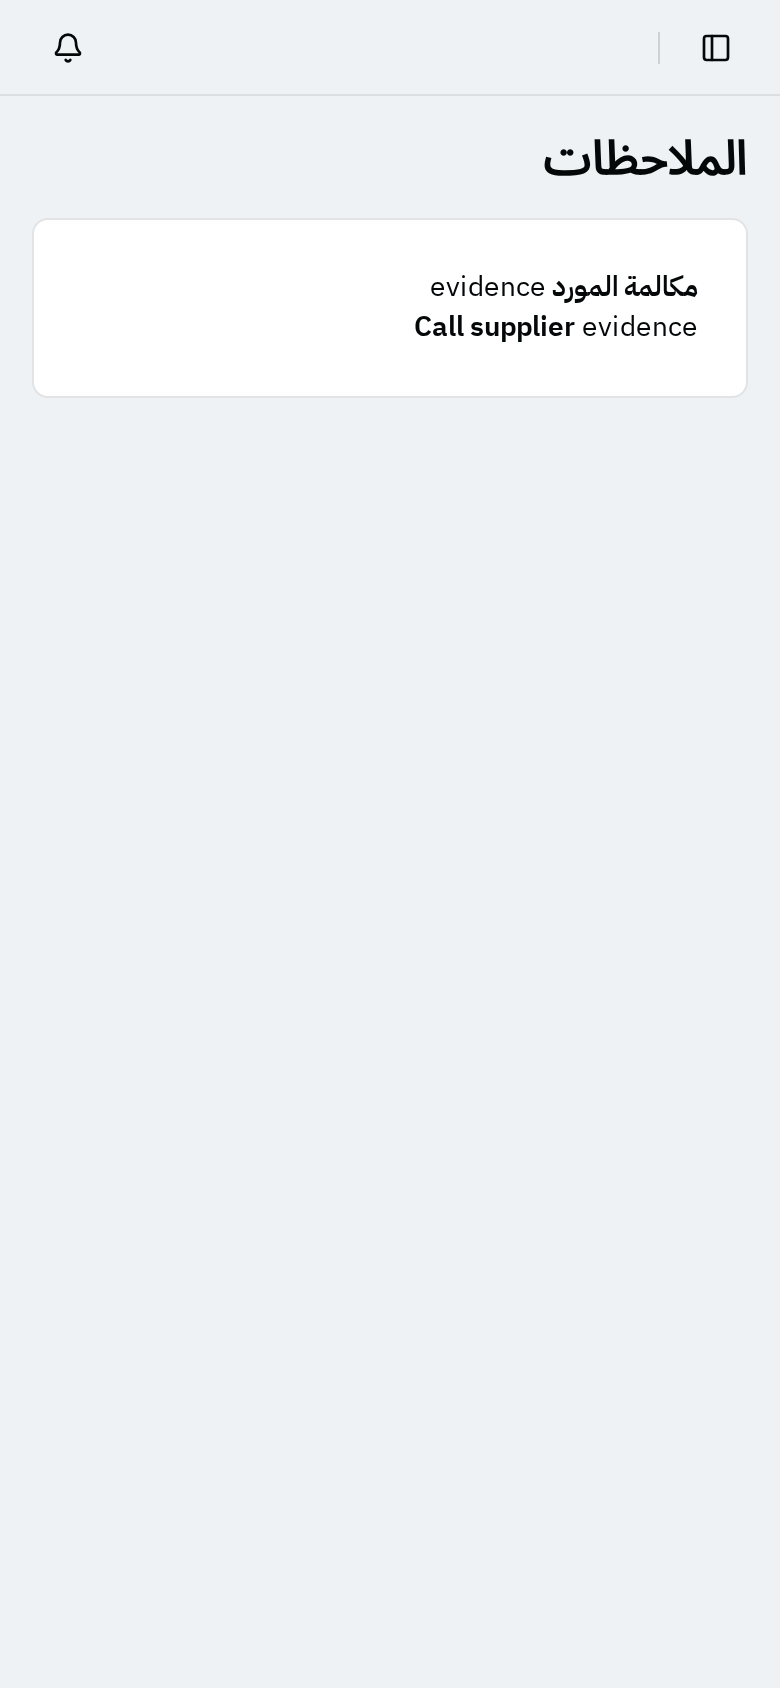
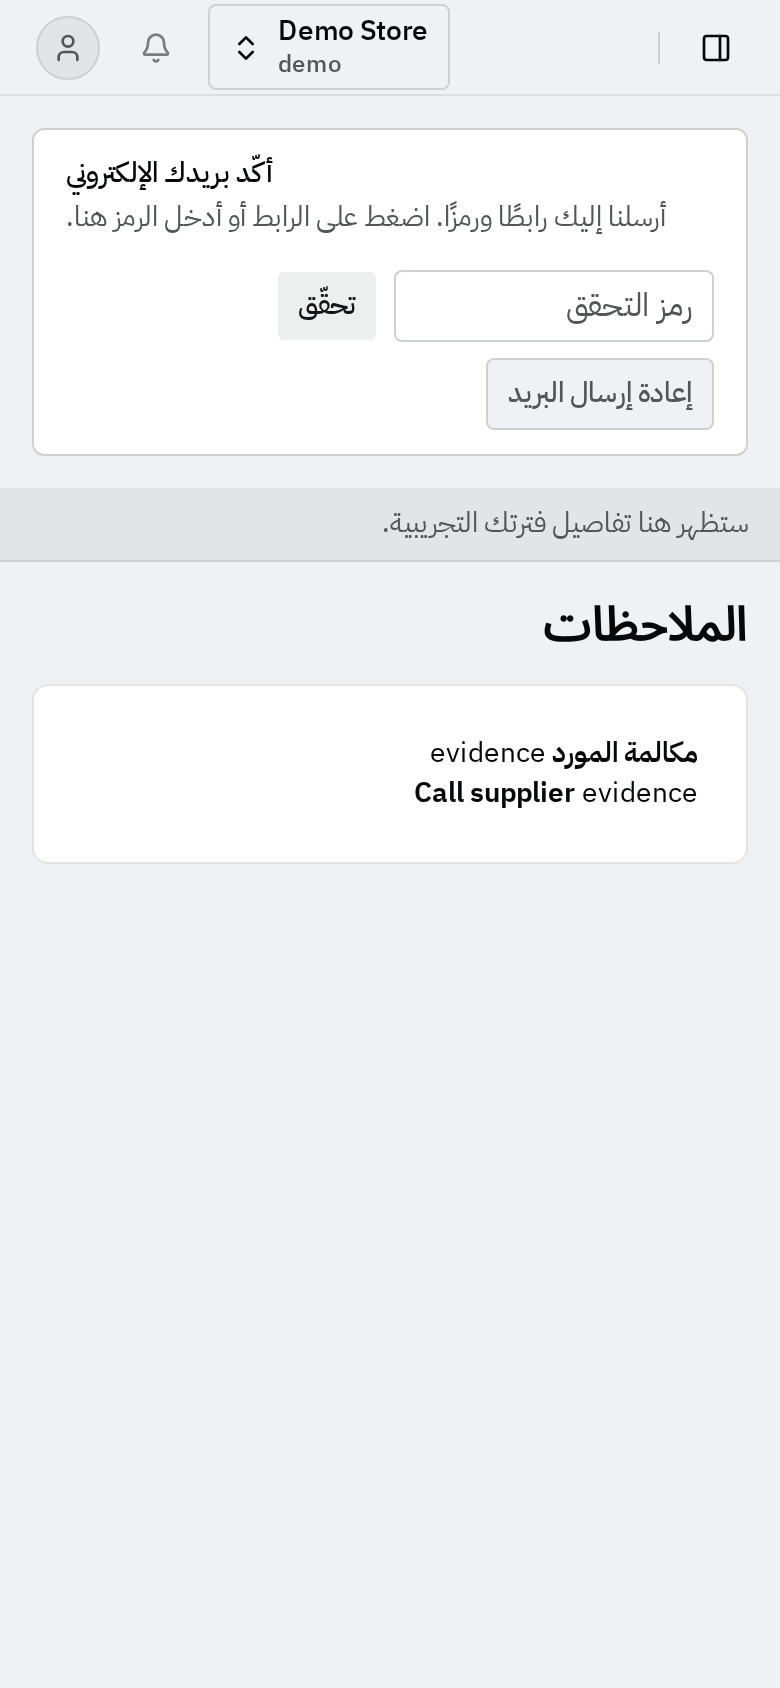
docs(evidence): regenerate P1.S1 through the merchant store switcher (#225)
Live run of scripts/evidence/P1.S1.sh at 56e081e (EVIDENCE-OK): signed /store/* transcripts, the store switcher shots and the new mobile content-language shot; seen notes rewritten from the PNGs.

diff --git a/docs/evidence/P1.S1/README.md b/docs/evidence/P1.S1/README.md
@@ -2,7 +2,7 @@
 
 Transcripts and screenshots from a live stack (CLAUDE.md §3a.14), produced by `scripts/evidence/P1.S1.sh`. Data is synthetic
 (demo seed, placeholders from `.env.example`). Image built from a tree with no uncommitted change outside the evidence
-folders, last image-relevant commit `4886c38e29da1a17d51a73550f232b970bfcb23a`. Compose project `cod-evidence`, with a second api container on port 23101.
+folders, last image-relevant commit `f32bd2ae76915919ff1720bf44f3622e6d1bf66b`. Compose project `cod-evidence`, with a second api container on port 23101.
 The demo seed ran twice; the second run created nothing.
 
 ## API transcripts
@@ -42,23 +42,25 @@ Dashboard, signed in as the demo owner on the Arabic store:
 | [`template-notes-en-desktop.png`](screens/template-notes-en-desktop.png) | `/dashboard/template-notes` | desktop 1280x800, scale 1 | en | `ltr` / `en` |
 | [`template-notes-ar-mobile.png`](screens/template-notes-ar-mobile.png) | `/dashboard/template-notes` | mobile 390x844, touch, scale 2 | ar | `rtl` / `ar` |
 | [`template-notes-en-mobile.png`](screens/template-notes-en-mobile.png) | `/dashboard/template-notes` | mobile 390x844, touch, scale 2 | en | `ltr` / `en` |
-| [`dashboard-content-language-ar-desktop.png`](screens/dashboard-content-language-ar-desktop.png) | `/dashboard/template-notes`, channel switcher open | desktop 1280x800 | ar | content language asserted `ar` |
+| [`dashboard-content-language-ar-desktop.png`](screens/dashboard-content-language-ar-desktop.png) | `/dashboard/template-notes`, store switcher open, store `demo` active | desktop 1280x800, scale 1 | ar | `rtl` / `ar`, content language `ar` (D7) |
+| [`dashboard-content-language-ar-mobile.png`](screens/dashboard-content-language-ar-mobile.png) | `/dashboard/template-notes`, store switcher open, store `demo` active | mobile 390x844, touch, scale 2 | ar | `rtl` / `ar`, content language `ar` (D7) |
 
 ## What was seen in each screenshot (opened by eye, CLAUDE.md §3a.17)
+
+Re-checked on 2026-11-13 after the #225 fix (the store is now chosen through the merchant store switcher in the top bar).
 
 | File | Seen |
 | --- | --- |
 | `demo-desktop.png`, `demo-mobile.png` | "Demo Store" centred on a plain page. The store name is the seed's English name on an Arabic store, which is data, not an untranslated string. No third-party name. Layout intact. |
 | `second-desktop.png`, `second-mobile.png` | "Second Store" centred, in a different font from the Arabic store (the French store's Latin face). No third-party name. Layout intact. |
 | `not-found-desktop.png`, `not-found-mobile.png` | The not-found message in Arabic, French and English, centred. No third-party name. |
-| `template-notes-ar-desktop.png` | Owner "Demo Owner", sidebar on the right, page title "الملاحظات", menu and breadcrumb in Arabic, both notes listed, RTL alignment correct. The sidebar shows "اللغة: العربية". **Flag:** the store switcher shows the channel code, a truncated hex string, instead of the store name. |
-| `template-notes-ar-mobile.png` | Arabic title, both notes, right-aligned; sidebar collapsed. No broken layout. |
-| `template-notes-en-desktop.png` | English chrome ("Notes", "Catalog", "Insights"), sidebar on the left, left-aligned, "Language: Arabic" (the store's content language, with the display language English). Same hex-code flag. |
-| `template-notes-en-mobile.png` | English title, both notes, left-aligned. No broken layout. |
-| `dashboard-content-language-ar-desktop.png` | Switcher open in Arabic: content language row reads "المحتوى: العربية", which is the D7 result. **Flags:** three channels listed by hex code, cut off at the menu's left edge; the third is the store archived earlier in this run, so an archived store stays in the owner's switcher. |
+| `template-notes-ar-desktop.png` | Merchant shell in Arabic: sidebar on the right, top bar with the store switcher reading "Demo Store / demo", the account and bell buttons on the left. The "verify your email" banner (أكّد بريدك الإلكتروني) with its code field and buttons, the trial strip, then the page title "الملاحظات" with both notes. RTL alignment correct. |
+| `template-notes-ar-mobile.png` | The same at 390 px: sidebar collapsed behind its toggle, switcher "Demo Store / demo", banner buttons wrapped, title and both notes right-aligned. No overflow. |
+| `template-notes-en-desktop.png` | English chrome ("Notes", "Catalog", "Verify your email", "Your trial details will appear here."), sidebar on the left, switcher "Demo Store / demo" on the right. Left-aligned, both notes listed. |
+| `template-notes-en-mobile.png` | English at 390 px: banner, trial strip, "Notes" and both notes, left-aligned. No overflow. |
+| `dashboard-content-language-ar-desktop.png` | The store switcher open in Arabic: "Demo Store / demo" checked, "Demo Store 2 / demo2", then "إنشاء متجر". The store archived earlier in this run is not listed. The menu covers part of the banner, as an open menu does. |
+| `dashboard-content-language-ar-mobile.png` | The same menu at 390 px, inside the viewport, with the same three rows. |
 
-No error, alert or toast on any dashboard shot. No third-party name on any of these shots. The dashboard's login page, which carries the licence-required footer (ADR 0001), is not among them. The notes bodies "evidence" are the synthetic data of the script, not an untranslated UI string.
+The verification banner is on every dashboard shot because the seeded owner's email is unverified by design (P1.S2); it is the only `role="alert"`, and the script fails on any other. No error or toast otherwise. No third-party name on any of these shots; the dashboard login page, which carries the licence-required footer (ADR 0001), is not among them. The notes bodies "evidence" and the store names are the script's synthetic data, not untranslated UI strings. "CodShop Assistant" in the top bar is our own product name.
 
-The hex channel code and the archived store in the switcher are deferred to P1.S5, which owns the switcher.
-
-Outside the shots, on a host-run api with the same owner: the landing page (Insights, an empty widget message in Arabic) and the merchant shell render with no alert or toast. The only refused query after sign-in is the dashboard's own `channels` (A1), which falls back to the owner's channels from `me`.
+D7 (switching store sets the content language to the store's language) is asserted by the script from the stored user settings, not read off a shot: the merchant switcher has no content-language row since P1.S5. The earlier flags (a hex channel code in the switcher, an archived store listed) were fixed by P1.S5 and are no longer seen.

diff --git a/scripts/evidence/P1.S1-seen.md b/scripts/evidence/P1.S1-seen.md
@@ -1,18 +1,19 @@
 ## What was seen in each screenshot (opened by eye, CLAUDE.md §3a.17)
 
+Re-checked on 2026-11-13 after the #225 fix (the store is now chosen through the merchant store switcher in the top bar).
+
 | File | Seen |
 | --- | --- |
 | `demo-desktop.png`, `demo-mobile.png` | "Demo Store" centred on a plain page. The store name is the seed's English name on an Arabic store, which is data, not an untranslated string. No third-party name. Layout intact. |
 | `second-desktop.png`, `second-mobile.png` | "Second Store" centred, in a different font from the Arabic store (the French store's Latin face). No third-party name. Layout intact. |
 | `not-found-desktop.png`, `not-found-mobile.png` | The not-found message in Arabic, French and English, centred. No third-party name. |
-| `template-notes-ar-desktop.png` | Owner "Demo Owner", sidebar on the right, page title "الملاحظات", menu and breadcrumb in Arabic, both notes listed, RTL alignment correct. The sidebar shows "اللغة: العربية". **Flag:** the store switcher shows the channel code, a truncated hex string, instead of the store name. |
-| `template-notes-ar-mobile.png` | Arabic title, both notes, right-aligned; sidebar collapsed. No broken layout. |
-| `template-notes-en-desktop.png` | English chrome ("Notes", "Catalog", "Insights"), sidebar on the left, left-aligned, "Language: Arabic" (the store's content language, with the display language English). Same hex-code flag. |
-| `template-notes-en-mobile.png` | English title, both notes, left-aligned. No broken layout. |
-| `dashboard-content-language-ar-desktop.png` | Switcher open in Arabic: content language row reads "المحتوى: العربية", which is the D7 result. **Flags:** three channels listed by hex code, cut off at the menu's left edge; the third is the store archived earlier in this run, so an archived store stays in the owner's switcher. |
+| `template-notes-ar-desktop.png` | Merchant shell in Arabic: sidebar on the right, top bar with the store switcher reading "Demo Store / demo", the account and bell buttons on the left. The "verify your email" banner (أكّد بريدك الإلكتروني) with its code field and buttons, the trial strip, then the page title "الملاحظات" with both notes. RTL alignment correct. |
+| `template-notes-ar-mobile.png` | The same at 390 px: sidebar collapsed behind its toggle, switcher "Demo Store / demo", banner buttons wrapped, title and both notes right-aligned. No overflow. |
+| `template-notes-en-desktop.png` | English chrome ("Notes", "Catalog", "Verify your email", "Your trial details will appear here."), sidebar on the left, switcher "Demo Store / demo" on the right. Left-aligned, both notes listed. |
+| `template-notes-en-mobile.png` | English at 390 px: banner, trial strip, "Notes" and both notes, left-aligned. No overflow. |
+| `dashboard-content-language-ar-desktop.png` | The store switcher open in Arabic: "Demo Store / demo" checked, "Demo Store 2 / demo2", then "إنشاء متجر". The store archived earlier in this run is not listed. The menu covers part of the banner, as an open menu does. |
+| `dashboard-content-language-ar-mobile.png` | The same menu at 390 px, inside the viewport, with the same three rows. |
 
-No error, alert or toast on any dashboard shot. No third-party name on any of these shots. The dashboard's login page, which carries the licence-required footer (ADR 0001), is not among them. The notes bodies "evidence" are the synthetic data of the script, not an untranslated UI string.
+The verification banner is on every dashboard shot because the seeded owner's email is unverified by design (P1.S2); it is the only `role="alert"`, and the script fails on any other. No error or toast otherwise. No third-party name on any of these shots; the dashboard login page, which carries the licence-required footer (ADR 0001), is not among them. The notes bodies "evidence" and the store names are the script's synthetic data, not untranslated UI strings. "CodShop Assistant" in the top bar is our own product name.
 
-The hex channel code and the archived store in the switcher are deferred to P1.S5, which owns the switcher.
-
-Outside the shots, on a host-run api with the same owner: the landing page (Insights, an empty widget message in Arabic) and the merchant shell render with no alert or toast. The only refused query after sign-in is the dashboard's own `channels` (A1), which falls back to the owner's channels from `me`.
+D7 (switching store sets the content language to the store's language) is asserted by the script from the stored user settings, not read off a shot: the merchant switcher has no content-language row since P1.S5. The earlier flags (a hex channel code in the switcher, an archived store listed) were fixed by P1.S5 and are no longer seen.

diff --git a/docs/evidence/P1.S1/api/subdomain-change.md b/docs/evidence/P1.S1/api/subdomain-change.md
@@ -6,6 +6,9 @@ Two api processes of the same image (ports 23100 and 23101). Both answer for the
 
 ```http
 GET http://127.0.0.1:23100/store/resolve?host=demo2.localhost
+x-internal-kid: k1
+x-internal-ts: <unix seconds>
+x-internal-sig: [REDACTED]
 
 HTTP/1.1 200 OK
 content-type: application/json; charset=utf-8
@@ -25,6 +28,9 @@ content-type: application/json; charset=utf-8
 
 ```http
 GET http://127.0.0.1:23101/store/resolve?host=demo2.localhost
+x-internal-kid: k1
+x-internal-ts: <unix seconds>
+x-internal-sig: [REDACTED]
 
 HTTP/1.1 200 OK
 content-type: application/json; charset=utf-8
@@ -75,6 +81,9 @@ content-type: application/json; charset=utf-8
 
 ```http
 GET http://127.0.0.1:23100/store/resolve?host=demo2.localhost
+x-internal-kid: k1
+x-internal-ts: <unix seconds>
+x-internal-sig: [REDACTED]
 
 HTTP/1.1 404 Not Found
 content-type: application/json; charset=utf-8
@@ -82,7 +91,7 @@ content-type: application/json; charset=utf-8
 {
   "statusCode": 404,
   "message": "Not Found",
-  "timestamp": "2026-11-08T23:33:13.228Z",
+  "timestamp": "2026-11-13T11:28:15.904Z",
   "path": "/store/resolve?host=demo2.localhost"
 }
 ```
@@ -91,6 +100,9 @@ content-type: application/json; charset=utf-8
 
 ```http
 GET http://127.0.0.1:23100/store/resolve?host=demo2-new.localhost
+x-internal-kid: k1
+x-internal-ts: <unix seconds>
+x-internal-sig: [REDACTED]
 
 HTTP/1.1 200 OK
 content-type: application/json; charset=utf-8
@@ -110,6 +122,9 @@ content-type: application/json; charset=utf-8
 
 ```http
 GET http://127.0.0.1:23101/store/resolve?host=demo2.localhost
+x-internal-kid: k1
+x-internal-ts: <unix seconds>
+x-internal-sig: [REDACTED]
 
 HTTP/1.1 404 Not Found
 content-type: application/json; charset=utf-8
@@ -117,7 +132,7 @@ content-type: application/json; charset=utf-8
 {
   "statusCode": 404,
   "message": "Not Found",
-  "timestamp": "2026-11-08T23:33:13.381Z",
+  "timestamp": "2026-11-13T11:28:16.026Z",
   "path": "/store/resolve?host=demo2.localhost"
 }
 ```
@@ -126,6 +141,9 @@ content-type: application/json; charset=utf-8
 
 ```http
 GET http://127.0.0.1:23101/store/resolve?host=demo2-new.localhost
+x-internal-kid: k1
+x-internal-ts: <unix seconds>
+x-internal-sig: [REDACTED]
 
 HTTP/1.1 200 OK
 content-type: application/json; charset=utf-8

diff --git a/docs/evidence/P1.S1/api/resolve.md b/docs/evidence/P1.S1/api/resolve.md
@@ -6,6 +6,9 @@ What the storefront asks on each request. Only public fields leave; an unknown h
 
 ```http
 GET http://127.0.0.1:23100/store/resolve?host=demo.localhost
+x-internal-kid: k1
+x-internal-ts: <unix seconds>
+x-internal-sig: [REDACTED]
 
 HTTP/1.1 200 OK
 content-type: application/json; charset=utf-8
@@ -25,6 +28,9 @@ content-type: application/json; charset=utf-8
 
 ```http
 GET http://127.0.0.1:23100/store/resolve?host=DEMO.Localhost:3001
+x-internal-kid: k1
+x-internal-ts: <unix seconds>
+x-internal-sig: [REDACTED]
 
 HTTP/1.1 200 OK
 content-type: application/json; charset=utf-8
@@ -44,6 +50,9 @@ content-type: application/json; charset=utf-8
 
 ```http
 GET http://127.0.0.1:23100/store/resolve?host=nope.localhost
+x-internal-kid: k1
+x-internal-ts: <unix seconds>
+x-internal-sig: [REDACTED]
 
 HTTP/1.1 404 Not Found
 content-type: application/json; charset=utf-8
@@ -51,7 +60,7 @@ content-type: application/json; charset=utf-8
 {
   "statusCode": 404,
   "message": "Not Found",
-  "timestamp": "2026-11-08T23:33:09.992Z",
+  "timestamp": "2026-11-13T11:27:36.455Z",
   "path": "/store/resolve?host=nope.localhost"
 }
 ```
@@ -60,6 +69,9 @@ content-type: application/json; charset=utf-8
 
 ```http
 GET http://127.0.0.1:23100/store/by-id/<STORE_B_ID>
+x-internal-kid: k1
+x-internal-ts: <unix seconds>
+x-internal-sig: [REDACTED]
 
 HTTP/1.1 200 OK
 content-type: application/json; charset=utf-8
@@ -79,6 +91,9 @@ content-type: application/json; charset=utf-8
 
 ```http
 GET http://127.0.0.1:23100/store/by-id/1
+x-internal-kid: k1
+x-internal-ts: <unix seconds>
+x-internal-sig: [REDACTED]
 
 HTTP/1.1 404 Not Found
 content-type: application/json; charset=utf-8
@@ -86,7 +101,7 @@ content-type: application/json; charset=utf-8
 {
   "statusCode": 404,
   "message": "Not Found",
-  "timestamp": "2026-11-08T23:33:10.170Z",
+  "timestamp": "2026-11-13T11:27:45.232Z",
   "path": "/store/by-id/1"
 }
 ```

diff --git a/docs/evidence/P1.S1/api/availability.md b/docs/evidence/P1.S1/api/availability.md
@@ -6,6 +6,9 @@ No session and no channel token: the sign-up wizard has neither. Same answer fro
 
 ```http
 GET http://127.0.0.1:23100/stores/subdomain-availability?subdomain=fresh-name
+x-internal-kid: k1
+x-internal-ts: <unix seconds>
+x-internal-sig: [REDACTED]
 
 HTTP/1.1 200 OK
 content-type: application/json; charset=utf-8
@@ -22,6 +25,9 @@ content-type: application/json; charset=utf-8
 
 ```http
 GET http://127.0.0.1:23100/stores/subdomain-availability?subdomain=demo
+x-internal-kid: k1
+x-internal-ts: <unix seconds>
+x-internal-sig: [REDACTED]
 
 HTTP/1.1 200 OK
 content-type: application/json; charset=utf-8
@@ -38,6 +44,9 @@ content-type: application/json; charset=utf-8
 
 ```http
 GET http://127.0.0.1:23100/stores/subdomain-availability?subdomain=demo3
+x-internal-kid: k1
+x-internal-ts: <unix seconds>
+x-internal-sig: [REDACTED]
 
 HTTP/1.1 200 OK
 content-type: application/json; charset=utf-8
@@ -54,6 +63,9 @@ content-type: application/json; charset=utf-8
 
 ```http
 GET http://127.0.0.1:23100/stores/subdomain-availability?subdomain=admin
+x-internal-kid: k1
+x-internal-ts: <unix seconds>
+x-internal-sig: [REDACTED]
 
 HTTP/1.1 200 OK
 content-type: application/json; charset=utf-8
@@ -70,6 +82,9 @@ content-type: application/json; charset=utf-8
 
 ```http
 GET http://127.0.0.1:23100/stores/subdomain-availability?subdomain=A!
+x-internal-kid: k1
+x-internal-ts: <unix seconds>
+x-internal-sig: [REDACTED]
 
 HTTP/1.1 200 OK
 content-type: application/json; charset=utf-8

diff --git a/docs/evidence/P1.S1/api/stores.md b/docs/evidence/P1.S1/api/stores.md
@@ -246,6 +246,9 @@ content-type: application/json; charset=utf-8
 
 ```http
 GET http://127.0.0.1:23100/store/resolve?host=demo3.localhost
+x-internal-kid: k1
+x-internal-ts: <unix seconds>
+x-internal-sig: [REDACTED]
 
 HTTP/1.1 404 Not Found
 content-type: application/json; charset=utf-8
@@ -253,7 +256,7 @@ content-type: application/json; charset=utf-8
 {
   "statusCode": 404,
   "message": "Not Found",
-  "timestamp": "2026-11-08T23:33:09.114Z",
+  "timestamp": "2026-11-13T11:27:03.253Z",
   "path": "/store/resolve?host=demo3.localhost"
 }
 ```
